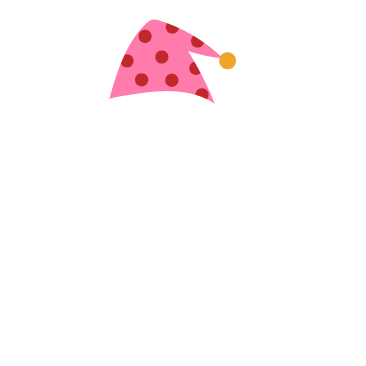
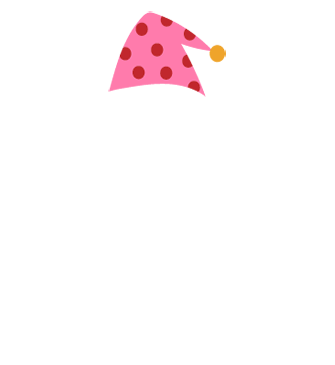
[feat] 修正角色換裝圖會跑掉的bug

Changed region(s): [[0.2985, 0.0301, 0.6866, 0.3014]]

diff --git a/dev/myUFO_wardrobe.html b/dev/myUFO_wardrobe.html
@@ -46,12 +46,12 @@
 		<img class="wardrobe_character_cap" v-if="wardrobe_character_cap == 2" src="./img/mimi/character/cap2.png" alt="">
 		<img class="wardrobe_character_cap" v-if="wardrobe_character_cap == 3" src="./img/mimi/character/cap3.png" alt="">
 		<img class="wardrobe_character_cap" v-if="wardrobe_character_cap == 4" src="./img/mimi/character/cap4.png" alt="">
-		<img class="wardrobe_character_cap" v-if="wardrobe_character_cap == 5" src="./img/mimi/character/cap5-1.png" alt="">
+		<img class="wardrobe_character_cap" v-if="wardrobe_character_cap == 5" src="./img/mimi/character/cap5.png" alt="">
 		<img class="wardrobe_character_fitting" v-if="wardrobe_character_fitting == 1" src="./img/mimi/character/fitting1.png" alt="">
 		<img class="wardrobe_character_fitting" v-if="wardrobe_character_fitting == 2" src="./img/mimi/character/fitting2.png" alt="">
 		<img class="wardrobe_character_fitting" v-if="wardrobe_character_fitting == 3" src="./img/mimi/character/fitting3.png" alt="">
 		<img class="wardrobe_character_fitting" v-if="wardrobe_character_fitting == 4" src="./img/mimi/character/fitting4.png" alt="">
-		<img class="wardrobe_character_fitting" v-if="wardrobe_character_fitting == 5" src="./img/mimi/character/fitting5-1.png" alt="">
+		<img class="wardrobe_character_fitting" v-if="wardrobe_character_fitting == 5" src="./img/mimi/character/fitting5.png" alt="">
 	</div>
 
      <div class="wardrobe_border">
